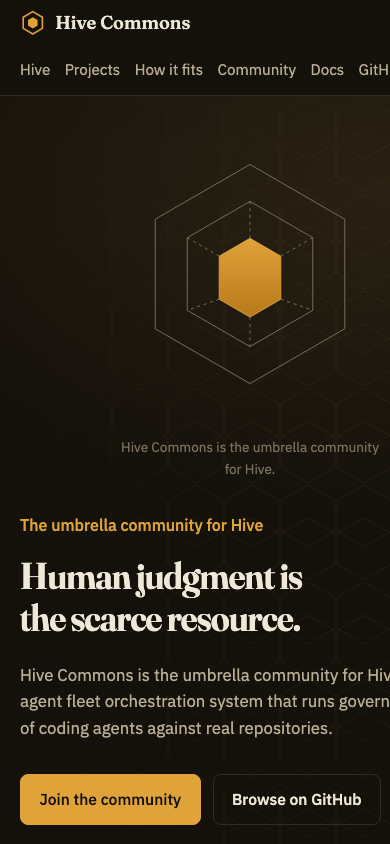
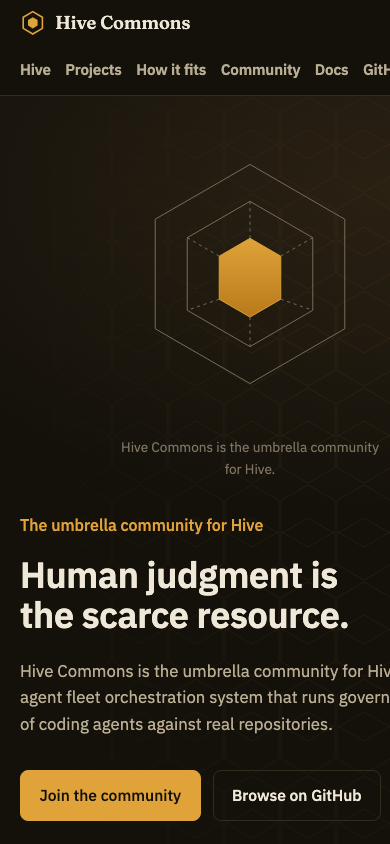
🌱 Simplify site typography (#17)

diff --git a/style.css b/style.css
@@ -14,7 +14,7 @@
   --line-soft: #26201414;
   --focus: #e0a33a;
 
-  --font-display: "Fraunces", Georgia, "Times New Roman", serif;
+  --font-wordmark: "Fraunces", Georgia, "Times New Roman", serif;
   --font-body: "IBM Plex Sans", system-ui, -apple-system, "Segoe UI", Helvetica, Arial, sans-serif;
 
   --wrap: 68rem;
@@ -60,9 +60,9 @@ a:focus-visible, button:focus-visible, [tabindex]:focus-visible {
   outline-offset: 3px;
   border-radius: 2px;
 }
-h1, h2, h3 { font-family: var(--font-display); font-weight: 560; margin: 0; line-height: 1.15; text-wrap: balance; }
-h2 { font-size: clamp(1.9rem, 3.6vw, 2.6rem); letter-spacing: -.01em; }
-h3 { font-size: 1.3rem; }
+h1, h2, h3 { font-family: var(--font-body); font-weight: 600; margin: 0; line-height: 1.12; letter-spacing: -.01em; text-wrap: balance; }
+h2 { font-size: clamp(1.85rem, 3.4vw, 2.45rem); }
+h3 { font-size: 1.25rem; }
 p { margin: 0; }
 .wrap { width: min(100% - 2 * var(--gutter), var(--wrap)); margin-inline: auto; }
 
@@ -77,10 +77,10 @@ p { margin: 0; }
 /* ---------- header ---------- */
 .top { border-bottom: 1px solid var(--line); background: color-mix(in srgb, var(--bg) 86%, transparent); backdrop-filter: blur(8px); position: sticky; top: 0; z-index: 5; }
 .top-row { display: flex; align-items: center; justify-content: space-between; gap: 1rem; min-height: 3.75rem; flex-wrap: wrap; padding-block: .5rem; }
-.brand { display: inline-flex; align-items: center; gap: .6rem; text-decoration: none; font-family: var(--font-display); font-weight: 560; font-size: 1.15rem; }
+.brand { display: inline-flex; align-items: center; gap: .6rem; text-decoration: none; font-family: var(--font-wordmark); font-weight: 560; font-size: 1.15rem; }
 .brand-mark { width: 1.6rem; height: 1.6rem; color: var(--honey); flex: none; }
 .top-nav { display: flex; gap: clamp(.9rem, 2.5vw, 1.6rem); flex-wrap: wrap; }
-.top-nav a { text-decoration: none; color: var(--ink-2); font-size: .95rem; padding-block: .25rem; border-bottom: 1px solid transparent; }
+.top-nav a { text-decoration: none; color: var(--ink-2); font-size: .95rem; font-weight: 600; letter-spacing: -.01em; padding-block: .25rem; border-bottom: 1px solid transparent; }
 .top-nav a:hover { color: var(--ink); border-bottom-color: var(--honey-deep); }
 
 /* ---------- hero carousel ---------- */
@@ -144,10 +144,8 @@ p { margin: 0; }
 .no-js .hero-controls { display: none; }
 .kicker { color: var(--honey); font-weight: 500; font-size: 1rem; margin-bottom: 1rem; }
 h1 {
-  font-size: clamp(2.3rem, 5.2vw, 3.9rem);
-  font-weight: 640;
-  letter-spacing: -.015em;
-  font-variation-settings: "opsz" 144;
+  font-size: clamp(2.25rem, 5vw, 3.65rem);
+  font-weight: 600;
   max-width: 18ch;
 }
 .lede { margin-top: 1.4rem; font-size: clamp(1.05rem, 1.6vw, 1.2rem); color: var(--ink-2); max-width: 48ch; }
@@ -231,9 +229,8 @@ h1 {
 .pitch { border-top: 1px solid var(--line); border-bottom: 1px solid var(--line); background: var(--bg-2); padding-block: clamp(2.5rem, 5vw, 4rem); }
 .pitch-grid { display: grid; grid-template-columns: minmax(0, 5fr) minmax(0, 7fr); gap: clamp(1.5rem, 4vw, 4rem); align-items: start; }
 .pitch-lead {
-  font-family: var(--font-display); font-style: italic; font-weight: 400;
-  font-size: clamp(1.7rem, 3vw, 2.3rem); line-height: 1.2; color: var(--honey);
-  font-variation-settings: "opsz" 72;
+  font-family: var(--font-body); font-style: italic; font-weight: 600;
+  font-size: clamp(1.55rem, 2.8vw, 2.1rem); line-height: 1.2; color: var(--honey); letter-spacing: -.01em;
   max-width: 14ch;
 }
 .pitch-body { display: grid; gap: 1rem; color: var(--ink); max-width: 62ch; }
@@ -257,7 +254,7 @@ h1 {
 .proof { margin-top: clamp(2.5rem, 5vw, 4rem); padding: clamp(1.25rem, 3vw, 2rem); border: 1px solid var(--line); border-radius: var(--radius); background: var(--bg-2); }
 .stats { margin: 0; display: grid; grid-template-columns: repeat(3, minmax(0, 1fr)); gap: 1rem; }
 .stats div { display: flex; flex-direction: column-reverse; gap: .1rem; }
-.stats dd { margin: 0; font-family: var(--font-display); font-size: clamp(1.9rem, 3.5vw, 2.6rem); font-weight: 560; line-height: 1.05; color: var(--honey); font-variant-numeric: tabular-nums; }
+.stats dd { margin: 0; font-family: var(--font-body); font-size: clamp(1.85rem, 3.3vw, 2.45rem); font-weight: 600; line-height: 1.05; color: var(--honey); font-variant-numeric: tabular-nums; letter-spacing: -.01em; }
 .stats dt { color: var(--ink-2); font-size: .92rem; }
 .proof-note { margin-top: .9rem; color: var(--ink-3); font-size: .88rem; }
 /* adopters logo strip */
@@ -424,7 +421,7 @@ h1 {
 .fit-glyph { width: 2rem; height: 2rem; fill: none; stroke: var(--honey); stroke-width: 1.5; stroke-linejoin: round; }
 .fit-col h3 { margin-top: .9rem; }
 .fit-col p { margin-top: .6rem; color: var(--ink-2); font-size: .98rem; }
-.fit-artifacts { padding-left: .9rem; border-left: 2px solid var(--honey-deep); color: var(--ink); font-style: italic; font-family: var(--font-display); font-size: 1.05rem; }
+.fit-artifacts { padding-left: .9rem; border-left: 2px solid var(--honey-deep); color: var(--ink); font-style: italic; font-family: var(--font-body); font-size: 1.02rem; font-weight: 500; }
 .fit-join { color: var(--honey-deep); align-self: center; width: 4rem; }
 .fit-join svg { width: 100%; }
 
@@ -443,9 +440,9 @@ h1 {
 /* ---------- footer ---------- */
 .foot { border-top: 1px solid var(--line); padding-block: 2.5rem calc(2.5rem + env(safe-area-inset-bottom, 0px)); }
 .foot-row { display: grid; grid-template-columns: auto 1fr; gap: 1rem 2.5rem; align-items: center; }
-.foot-brand { display: inline-flex; align-items: center; gap: .6rem; font-family: var(--font-display); font-weight: 560; }
+.foot-brand { display: inline-flex; align-items: center; gap: .6rem; font-family: var(--font-wordmark); font-weight: 560; }
 .foot-nav { display: flex; flex-wrap: wrap; gap: 1.2rem; justify-self: end; }
-.foot-nav a { text-decoration: none; color: var(--ink-2); font-size: .92rem; }
+.foot-nav a { text-decoration: none; color: var(--ink-2); font-size: .92rem; font-weight: 600; letter-spacing: -.01em; }
 .foot-nav a:hover { color: var(--honey); }
 .foot-legal { grid-column: 1 / -1; color: var(--ink-3); font-size: .85rem; }
 

diff --git a/index.html b/index.html
@@ -24,7 +24,7 @@
 <meta name="twitter:image" content="https://hivecommons.dev/og.png">
 <link rel="preconnect" href="https://fonts.googleapis.com">
 <link rel="preconnect" href="https://fonts.gstatic.com" crossorigin>
-<link rel="stylesheet" href="https://fonts.googleapis.com/css2?family=Fraunces:ital,opsz,wght@0,9..144,400;0,9..144,560;0,9..144,640;1,9..144,400&family=IBM+Plex+Sans:ital,wght@0,400;0,500;0,600;1,400&display=swap">
+<link rel="stylesheet" href="https://fonts.googleapis.com/css2?family=Fraunces:opsz,wght@9..144,560&family=IBM+Plex+Sans:ital,wght@0,400;0,500;0,600;1,400&display=swap">
 <script>document.documentElement.classList.replace('no-js', 'js');</script>
 <link rel="stylesheet" href="/style.css">
 </head>
@@ -119,7 +119,7 @@
               <g class="cell" style="--i:5"><path d="M135 264l42 24v48l-42 24-42-24v-48z"/><text x="135" y="317">spoke</text></g>
               <g class="cell" style="--i:6"><path d="M135 120l42 24v48l-42 24-42-24v-48z"/><text x="135" y="173">spoke</text></g>
             </g>
-            <g class="hub" font-family="'Fraunces', Georgia, serif" font-size="22" text-anchor="middle">
+            <g class="hub" font-family="'IBM Plex Sans', system-ui, sans-serif" font-size="22" text-anchor="middle">
               <path d="M260 178l54 31v62l-54 31-54-31v-62z"/>
               <text x="260" y="248">hub</text>
             </g>
